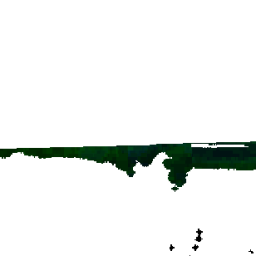
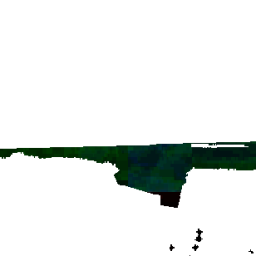
Update to support slope tile display

Changed region(s): [[0.4375, 0.5625, 0.7188, 0.8125]]

diff --git a/index.html b/index.html
@@ -273,13 +273,21 @@ function showroute(e) {
 		}
 }
 
+function toggleSlope(e) {
+	if ($('#slope').prop("checked")) {
+		map.remove.(slopelyr);
+	} else {
+		slopelyr.addTo(map);
+	}
+}
+
 function showcontrol(e) {
 	$('#control').show();
 }
 $(document).ready(function(){
 	$('#all').onchange = showroute;
 	$('#accessible').onchange = showroute;
-	$('#slope').onchange = showroute;
+	$('#slope').onchange = toggleSlope;
 	$('#hamburger').click(showcontrol);
 	showroute();
  }
@@ -291,8 +299,16 @@ $(document).ready(function(){
 var osm = L.tileLayer('http://{s}.tile.osm.org/{z}/{x}/{y}.png', {attribution: '&copy; <a href="http://osm.org/copyright">OpenStreetMap</a> contributors'});
 
 
-// Overlay layers (TMS)
+// Overlay orthomosaic layer (TMS)
 var lyr = L.tileLayer('./{z}/{x}/{y}.png', {tms: true, 
+	opacity: 1, 
+	attribution: "",
+	maxZoom: 21
+});
+
+//Overlay slope layer (TMS)
+
+var slopelyr = L.tileLayer('slope-tiles/{z}/{x}/{y}.png', {tms: true, 
 	opacity: 1, 
 	attribution: "",
 	maxZoom: 21
